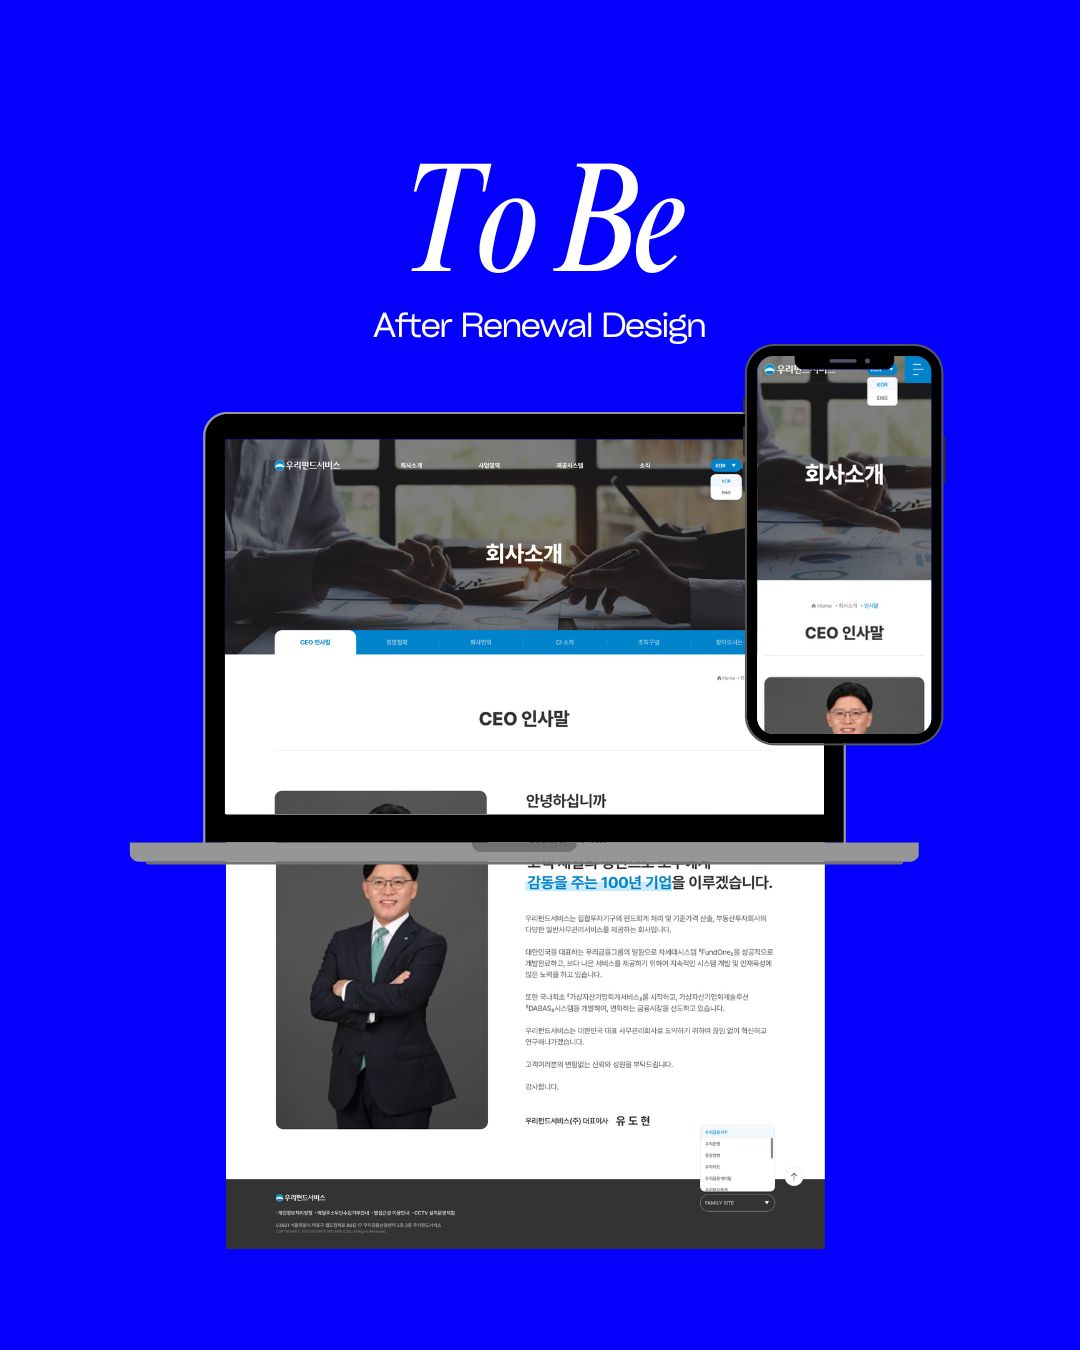
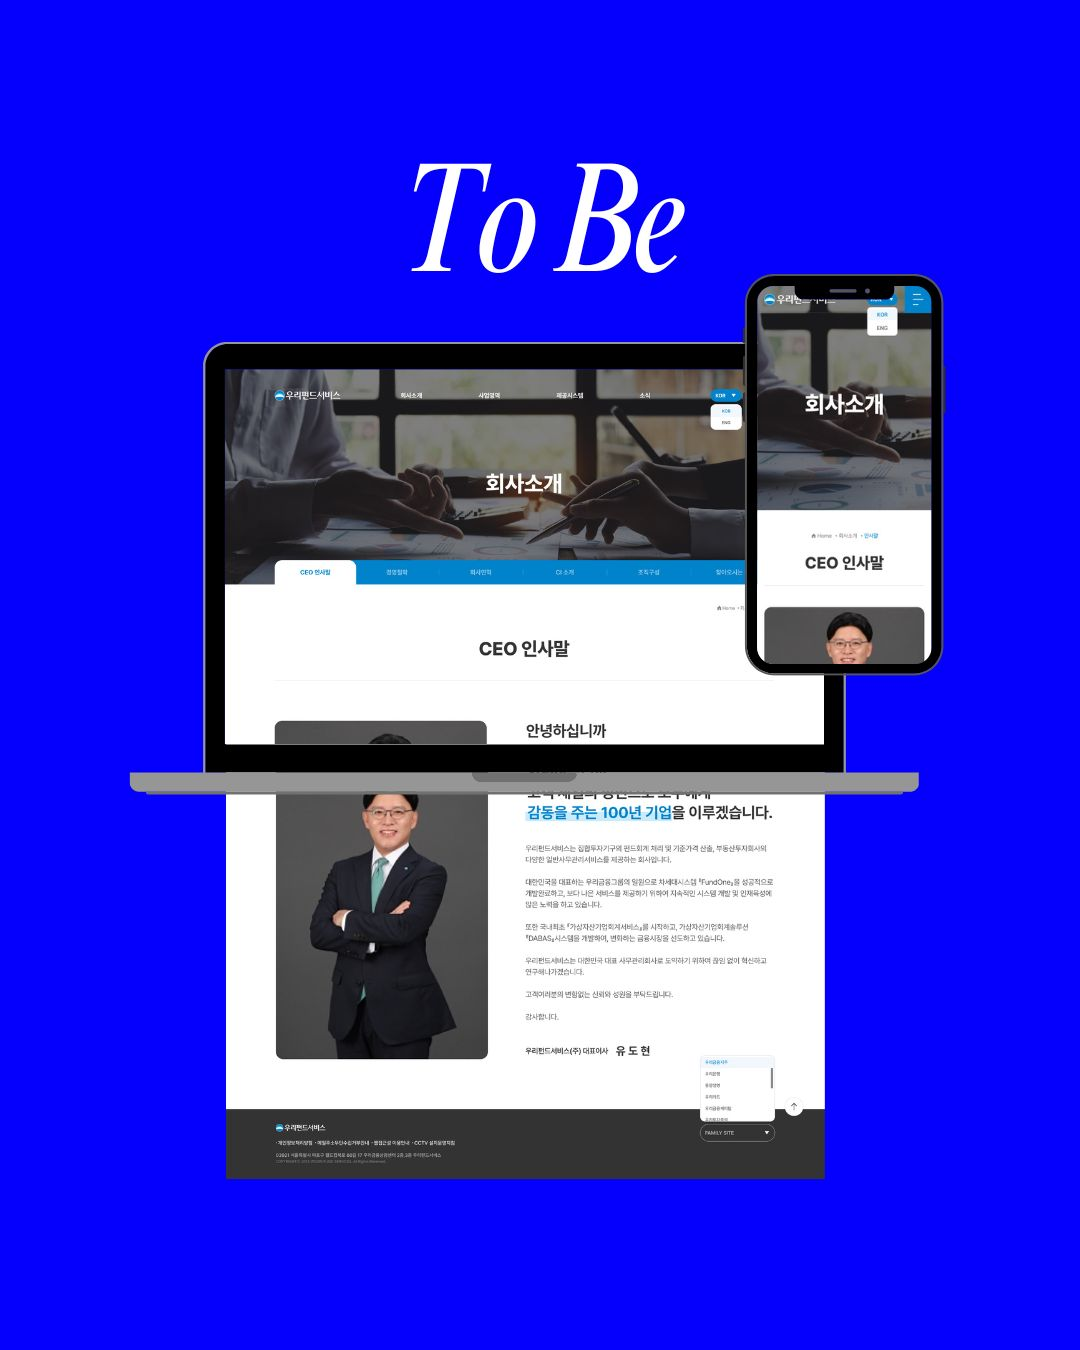
케이스스터디 비포에프터 서브와 화살표추가

Changed region(s): [[0.1222, 0.1867, 0.8861, 0.9333]]

diff --git a/works/case-study.html b/works/case-study.html
@@ -519,7 +519,7 @@
                                 정보 구조를 개선</b>하여 금융 브랜드 신뢰감을 높이고,<br>반응형 경험을 최적화합니다.</span>
                     </h2>
                 </div>
-
+                <!-- case-before-after__preview -->
                 <div class="case-before-after__preview" data-aos="fade-up" data-aos-delay="400">
                     <figure class="case-before-after__preview-card asis">
                         <div
@@ -527,12 +527,51 @@
                             <span>이전 사이트 캡처</span>
                             <img src="/assets/images/case_01_asis.jpg" alt="Case image">
                         </div>
-                        <figcaption>기존 화면</figcaption>
+                        <figcaption>메인 기존 화면</figcaption>
                     </figure>
+                    <div class="case-before-after__preview-arrow" aria-hidden="true">→</div>
                     <figure class="case-before-after__preview-card tobe">
                         <div class="case-before-after__preview-screenshot case-before-after__preview-screenshot--after">
                             <span>리뉴얼 화면</span>
                             <img src="/assets/images/case_01_tobe.jpg" alt="Case image">
+                        </div>
+                        <figcaption>개선 화면</figcaption>
+                    </figure>
+                </div>
+                <!-- case-before-after__preview -->
+                <div class="case-before-after__preview" data-aos="fade-up" data-aos-delay="400">
+                    <figure class="case-before-after__preview-card asis">
+                        <div
+                            class="case-before-after__preview-screenshot case-before-after__preview-screenshot--before">
+                            <span>이전 사이트 캡처</span>
+                            <img src="/assets/images/case_01_asis_sub2.jpg" alt="Case image">
+                        </div>
+                        <figcaption>주요업무 기존 화면</figcaption>
+                    </figure>
+                    <div class="case-before-after__preview-arrow" aria-hidden="true">→</div>
+                    <figure class="case-before-after__preview-card tobe">
+                        <div class="case-before-after__preview-screenshot case-before-after__preview-screenshot--after">
+                            <span>리뉴얼 화면</span>
+                            <img src="/assets/images/case_01_tobe_sub2.jpg" alt="Case image">
+                        </div>
+                        <figcaption>개선 화면</figcaption>
+                    </figure>
+                </div>
+                <!-- case-before-after__preview -->
+                <div class="case-before-after__preview" data-aos="fade-up" data-aos-delay="400">
+                    <figure class="case-before-after__preview-card asis">
+                        <div
+                            class="case-before-after__preview-screenshot case-before-after__preview-screenshot--before">
+                            <span>이전 사이트 캡처</span>
+                            <img src="/assets/images/case_01_asis_sub4.jpg" alt="Case image">
+                        </div>
+                        <figcaption>제공시스템 기존 화면</figcaption>
+                    </figure>
+                    <div class="case-before-after__preview-arrow" aria-hidden="true">→</div>
+                    <figure class="case-before-after__preview-card tobe">
+                        <div class="case-before-after__preview-screenshot case-before-after__preview-screenshot--after">
+                            <span>리뉴얼 화면</span>
+                            <img src="/assets/images/case_01_tobe_sub4.jpg" alt="Case image">
                         </div>
                         <figcaption>개선 화면</figcaption>
                     </figure>
@@ -650,7 +689,7 @@
                     </div>
                     <div class="case-before-after__comparison-row">
                         <span>정보 전달</span>
-                        <span>텍스트 중심의 답답한 메인 화면 구성</span>
+                        <span>텍스트 중심의 답답한 레이아웃 화면 구성</span>
                         <span><strong class="case-before-after__comparison-key">핵심 정보 카드화 및 비주얼 요소 배치를 통한 가독성
                                 증대</strong></span>
                     </div>

diff --git a/assets/css/case-study.css b/assets/css/case-study.css
@@ -959,8 +959,39 @@
 
 .case-before-after__preview {
     display: flex;
-    gap: var(--space-6);
+    align-items: center;
+    gap: var(--space-5);
     margin-bottom: var(--space-12);
+    padding-bottom: var(--space-12);
+    border-bottom: 1px dashed rgba(255, 255, 255, 0.08);
+}
+
+.case-before-after__preview-arrow {
+    display: grid;
+    place-items: center;
+    flex-shrink: 0;
+    width: 3rem;
+    height: 3rem;
+    border-radius: var(--radius-full);
+    background: rgba(240, 255, 54, 0.1);
+    border: 1px solid rgba(240, 255, 54, 0.35);
+    color: var(--color-accent);
+    font-size: 1.6rem;
+    line-height: 1;
+    box-shadow: 0 0 0 6px rgba(240, 255, 54, 0.04);
+}
+
+@media (max-width: 768px) {
+    .case-before-after__preview {
+        flex-direction: column;
+        gap: var(--space-4);
+    }
+
+    .case-before-after__preview-arrow {
+        width: 2.75rem;
+        height: 2.75rem;
+        transform: rotate(90deg);
+    }
 }
 
 .case-before-after__preview-card {

diff --git a/- md파일/vscode_도서관.md b/- md파일/vscode_도서관.md
@@ -3815,9 +3815,6 @@ Read [](file:///c%3A/Users/user/Downloads/%EA%B9%83%ED%97%88%EB%B8%8C/port-ui/in
 Replacing 10 lines with 9 lines in [](file:///c%3A/Users/user/Downloads/%EA%B9%83%ED%97%88%EB%B8%8C/port-ui/assets/css/about.css)
 
 
-```
-
-```
 ✅ 수정 완료했습니다.
 
 - about.css에서 `.about__media-item:nth-child(3)`의 `margin-top: -110px`를 제거했습니다.
@@ -3844,9 +3841,6 @@ Searched for regex `align-items: start|align-self: start|justify-items|align-ite
 Replacing 41 lines with 23 lines in [](file:///c%3A/Users/user/Downloads/%EA%B9%83%ED%97%88%EB%B8%8C/port-ui/assets/css/about.css)
 
 
-```
-
-```
 ## 수정 내용
 
 about.css를 다음과 같이 변경했습니다.
@@ -3888,9 +3882,6 @@ Searched for regex `about__media-item|about__media-stage|grid-auto-rows|masonry|
 Replacing 16 lines with 22 lines in [](file:///c%3A/Users/user/Downloads/%EA%B9%83%ED%97%88%EB%B8%8C/port-ui/assets/css/about.css)
 
 
-```
-
-```
 ## 수정 완료
 
 about.css에 다음 변경을 적용했습니다:
@@ -3913,18 +3904,76 @@ Made changes.
 
 **User**
 
+case-before-after__preview 에서
+.case-before-after__preview-card.asis 와 .case-before-after__preview-card.tobe 사이에 화살표 아이콘을 넣어주세요
 
 ---
 
 **VS-CODE**
+
+이제 해당 섹션의 구조와 스타일을 확인해서 화살표를 자연스럽게 넣고 바로 반영하겠습니다.
+
+Searched for regex `case-before-after__preview-card|case-before-after__preview` (`**/*.{html,css,js}`), 32 results
+
+Read , lines 520 to 575
+
+Read , lines 960 to 1065
+
+두 카드 사이에 중앙 화살표를 넣는 형태로 정리해서, 기존 레이아웃을 건드리지 않고 스타일만 보강하겠습니다.
+
+Replacing 37 lines with 53 lines in , 
+
+
+나머지 미리보기 묶음도 같은 패턴으로 맞춰서 적용하겠습니다.
+
+Replacing 30 lines with 32 lines in 
+
+
+## ✅ 반영 완료
+
+`case-study.html` 에서 각 before/after 비교 섹션 사이에 화살표를 추가했고,  
+`case-study.css` 에서 화살표 스타일을 맞춰서 자연스럽게 보이도록 정리했습니다.
+
+- 화살표 위치: asis와 tobe 카드 사이
+- 아이콘 형태: → 스타일
+- 적용 범위: 모든 비교 미리보기 블록
+
+원하시면 다음도 바로 맞춰드릴 수 있습니다.
+- 화살표 크기 조정
+- 색상/배경 강조
+- 아이콘을 ⇄ 또는 ⟶ 로 변경
+
+Made changes.
 
 
 **User**
 
+모바일에서는 화살표 방향이 아래로 해야합니다
 
 ---
 
 **VS-CODE**
+
+모바일에서만 세로 방향으로 바뀌도록 반응형 스타일을 추가하겠습니다.
+
+Replacing 17 lines with 30 lines in 
+
+
+## ✅ 수정 완료
+
+모바일에서는 화살표가 아래로 보이도록 반응형 스타일을 추가했습니다.
+
+- 적용 파일: `case-study.css`
+- 변경 내용: 모바일 기준에서 flex 방향을 세로로 바꾸고, 화살표를 90도 회전해서 아래 방향으로 보이게 처리
+
+필요하면 다음 단계로
+- 화살표를 더 둥글게
+- 중앙 간격 더 넓게
+- 모바일에서 “AS IS → TO BE” 느낌으로 텍스트까지 보강
+
+이런 식으로도 더 정리해드릴 수 있습니다.
+
+Made changes.
 
 
 **User**
